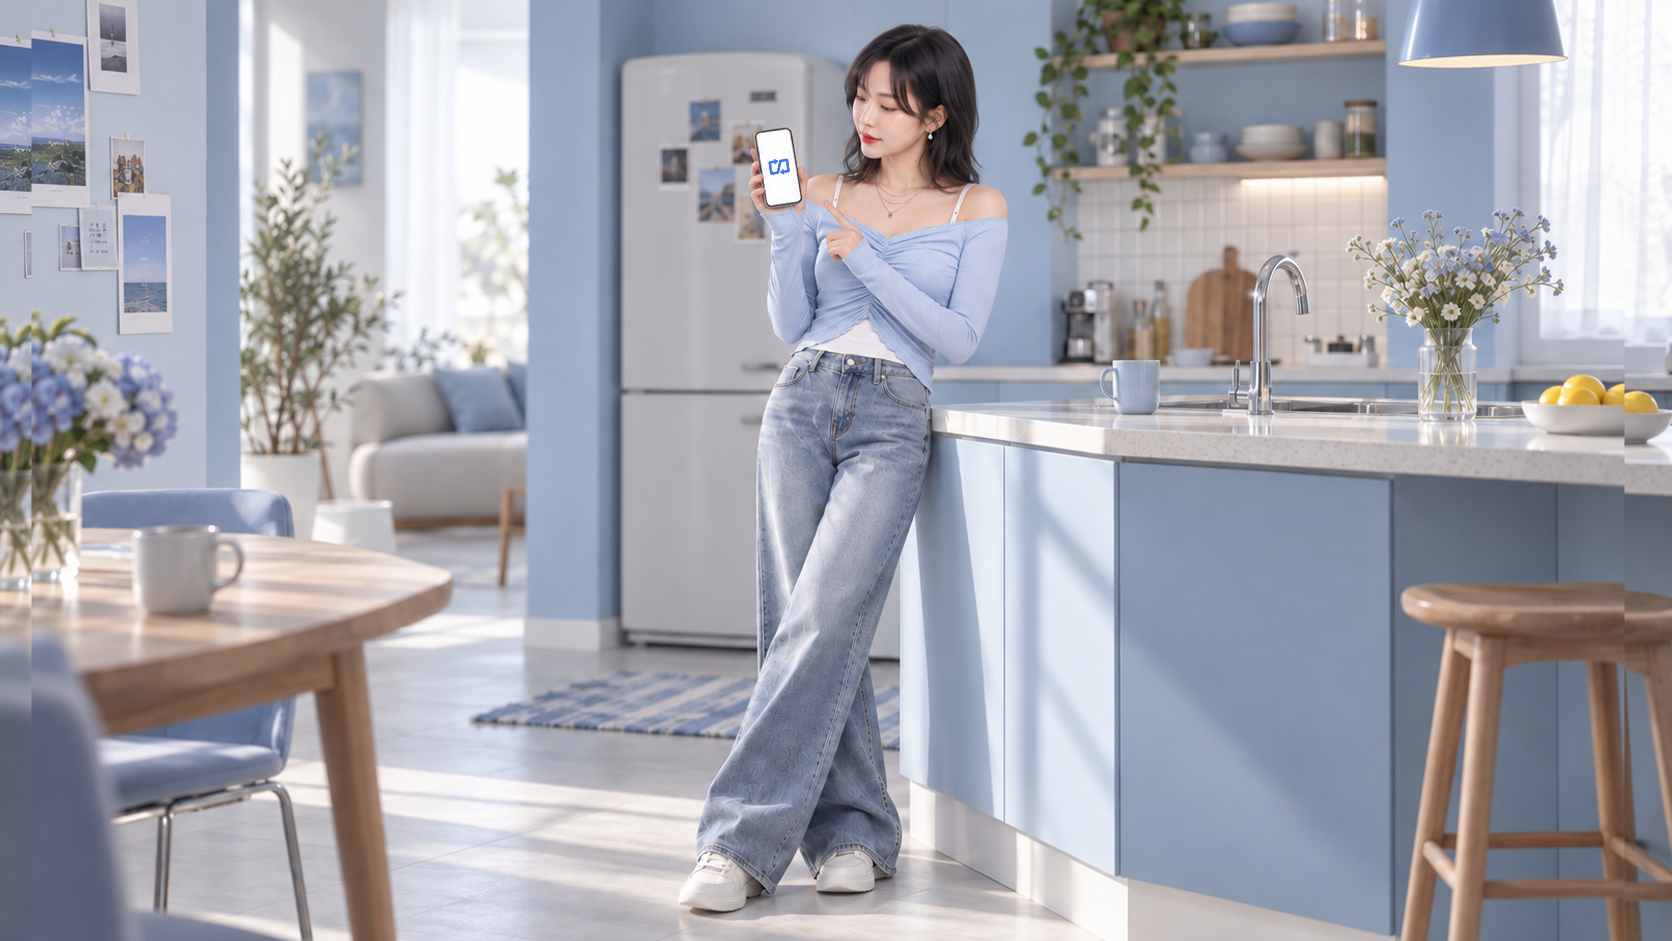
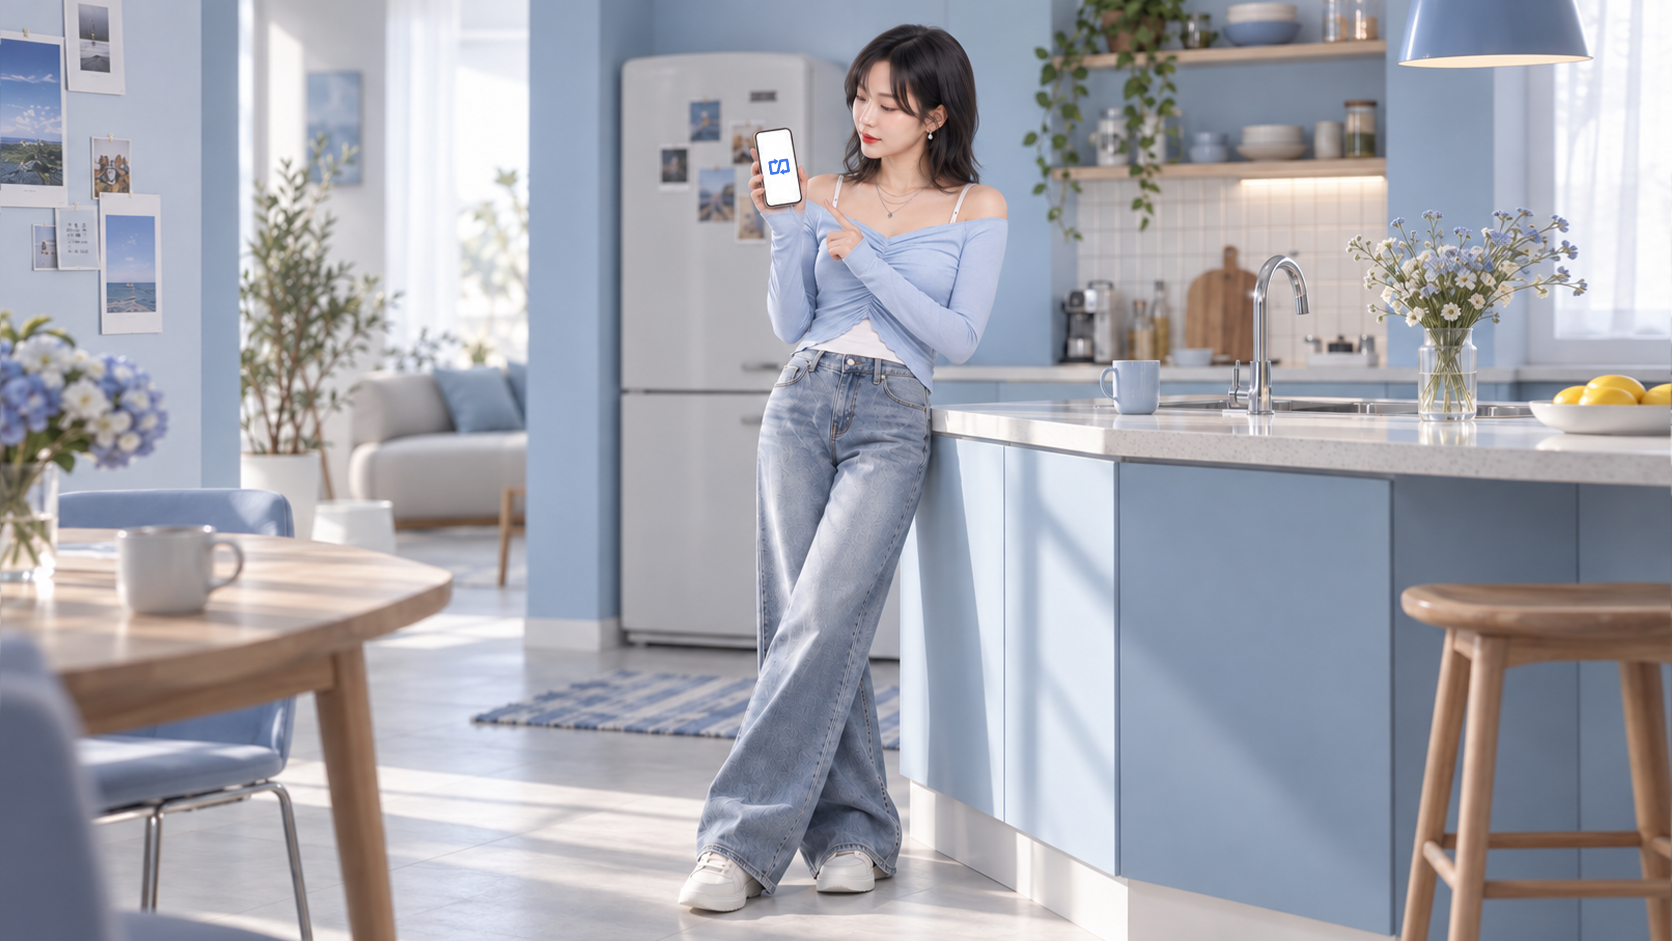
회사소개 상단 사진 교체

diff --git a/about.html b/about.html
@@ -349,7 +349,7 @@
 <main class="main">
   <!-- 1. 헤더 — 사진 한 장. 교체는 아래 img 한 줄만 -->
   <header class="ahd">
-    <img class="ahd-img" src="img/about-hero.png?v=4" alt="집에서 휴대폰으로 결제하는 모습">
+    <img class="ahd-img" src="img/about-hero.png?v=5" alt="집에서 휴대폰으로 결제하는 모습">
     <div class="ahd-tx">
       <div class="wrap">
         <span class="ahd-eye">회사소개</span>
